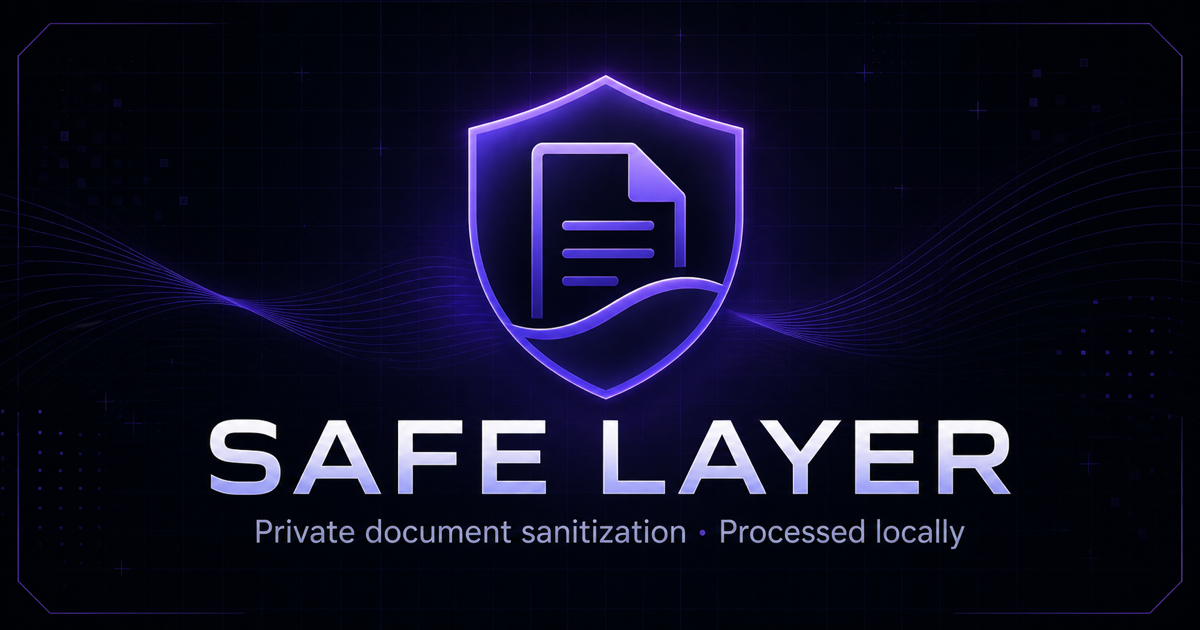
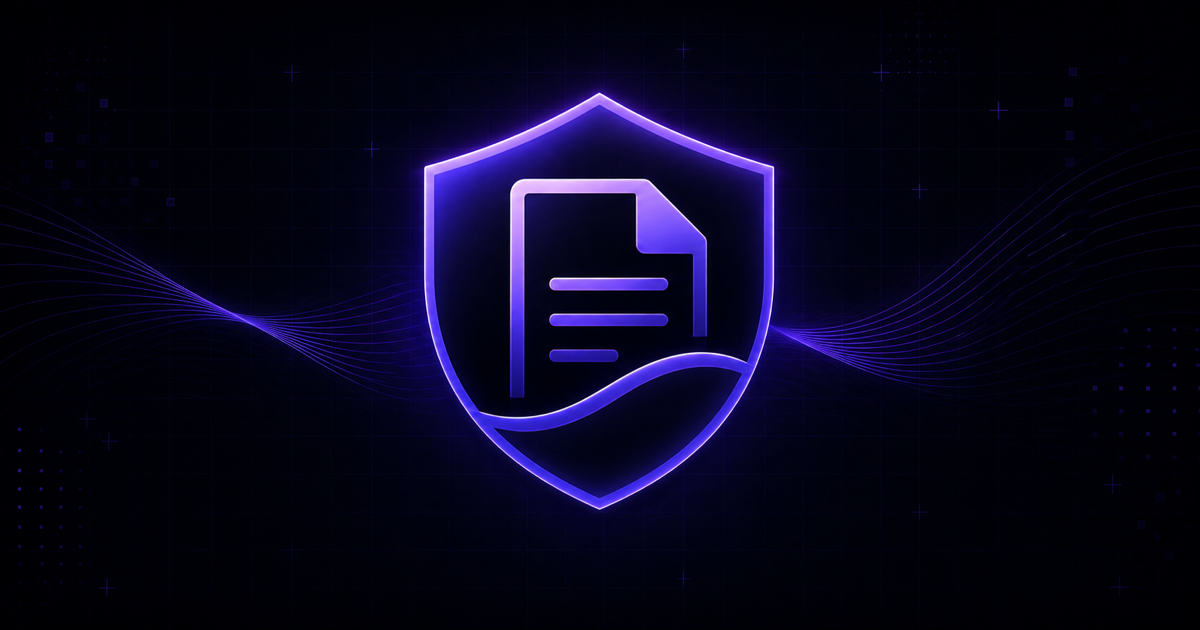
Improve text-free social preview

diff --git a/index.html b/index.html
@@ -12,14 +12,14 @@
     <meta property="og:url" content="https://davidgcs.github.io/safelayer/">
     <meta property="og:title" content="Safe Layer — Private document sanitization">
     <meta property="og:description" content="Sanitize images and PDFs locally with redactions, grayscale, and customizable watermarks.">
-    <meta property="og:image" content="https://davidgcs.github.io/safelayer/assets/social-preview.png">
+    <meta property="og:image" content="https://davidgcs.github.io/safelayer/assets/social-preview.png?v=2">
     <meta property="og:image:width" content="1200">
     <meta property="og:image:height" content="630">
     <meta property="og:image:alt" content="Safe Layer shield protecting a document over a violet wave">
     <meta name="twitter:card" content="summary_large_image">
     <meta name="twitter:title" content="Safe Layer — Private document sanitization">
     <meta name="twitter:description" content="Sanitize images and PDFs locally with redactions, grayscale, and customizable watermarks.">
-    <meta name="twitter:image" content="https://davidgcs.github.io/safelayer/assets/social-preview.png">
+    <meta name="twitter:image" content="https://davidgcs.github.io/safelayer/assets/social-preview.png?v=2">
     <title>Safe Layer — Document sanitizer</title>
     <link rel="icon" href="./assets/favicon.svg" type="image/svg+xml">
     <link rel="stylesheet" href="./github-brand.css">
